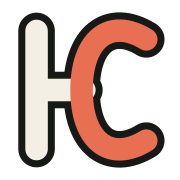
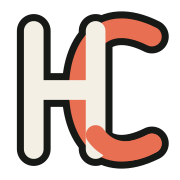
Redesign hero hierarchy and HC monogram

Changed region(s): [[0.0833, 0.0556, 0.9444, 0.9444]]

diff --git a/assets/css/site.css b/assets/css/site.css
@@ -241,31 +241,43 @@ html[data-theme="dark"] .theme-glyph {
 
 .home-hero {
   display: grid;
-  grid-template-columns: minmax(0, 1.35fr) minmax(270px, 0.65fr);
+  grid-template-columns: minmax(0, 1.12fr) minmax(310px, 0.88fr);
   align-items: start;
-  gap: clamp(58px, 8vw, 112px);
+  gap: clamp(70px, 9vw, 130px);
   border-bottom: 1px solid var(--line-strong);
-  padding-top: 92px;
-  padding-bottom: 82px;
+  padding-top: 88px;
+  padding-bottom: 86px;
 }
 
 .hero-copy h1 {
-  max-width: 700px;
-  margin: 23px 0 0;
+  max-width: 650px;
+  margin: 28px 0 0;
   font-family: var(--display);
-  font-size: clamp(58px, 6.4vw, 88px);
-  font-weight: 400;
-  letter-spacing: -0.052em;
-  line-height: 0.99;
+  font-size: clamp(59px, 6.2vw, 84px);
+  font-weight: 500;
+  letter-spacing: -0.045em;
+  line-height: 0.94;
+}
+
+.hero-copy h1 span {
+  display: block;
+  margin-top: 24px;
+  color: var(--muted);
+  font-family: var(--sans);
+  font-size: clamp(15px, 1.45vw, 19px);
+  font-weight: 600;
+  letter-spacing: 0.055em;
+  line-height: 1.35;
+  text-transform: uppercase;
 }
 
 .hero-introduction {
-  max-width: 570px;
-  margin: 30px 0 0;
+  max-width: 520px;
+  margin: 31px 0 0;
   color: var(--muted);
-  font-family: var(--display);
-  font-size: clamp(19px, 1.7vw, 23px);
-  line-height: 1.5;
+  font-family: var(--sans);
+  font-size: clamp(16px, 1.45vw, 18px);
+  line-height: 1.75;
 }
 
 .hero-links {
@@ -303,10 +315,13 @@ html[data-theme="dark"] .theme-glyph {
 }
 
 .profile-card {
+  width: 100%;
+  max-width: 360px;
+  justify-self: end;
   border: 1px solid var(--line-strong);
   border-top: 3px solid var(--accent);
   background: var(--surface);
-  padding: 22px;
+  padding: 25px;
 }
 
 .profile-card-head {
@@ -1487,12 +1502,17 @@ a.project-card:hover {
   }
 
   .hero-copy h1 {
-    font-size: clamp(55px, 16.5vw, 76px);
+    font-size: clamp(51px, 15vw, 68px);
+  }
+
+  .hero-copy h1 span {
+    margin-top: 19px;
+    font-size: 14px;
   }
 
   .hero-introduction {
-    margin-top: 30px;
-    font-size: 20px;
+    margin-top: 26px;
+    font-size: 16px;
   }
 
   .hero-links {

diff --git a/_layouts/default.html b/_layouts/default.html
@@ -12,9 +12,9 @@
   <meta property="og:url" content="{{ page.url | absolute_url }}">
   <title>{% if page.title and page.title != "Home" %}{{ page.title }} — {% endif %}{{ site.title }}</title>
   <link rel="canonical" href="{{ page.url | absolute_url }}">
-  <link rel="icon" type="image/svg+xml" href="/favicon.svg">
-  <link rel="icon" type="image/png" sizes="200x200" href="/favicon.png">
-  <link rel="apple-touch-icon" sizes="180x180" href="/apple-touch-icon.png">
+  <link rel="icon" type="image/svg+xml" href="/favicon.svg?v=hc-20260726">
+  <link rel="icon" type="image/png" sizes="200x200" href="/favicon.png?v=hc-20260726">
+  <link rel="apple-touch-icon" sizes="180x180" href="/apple-touch-icon.png?v=hc-20260726">
   <link rel="preconnect" href="https://fonts.googleapis.com">
   <link rel="preconnect" href="https://fonts.gstatic.com" crossorigin>
   <link rel="preconnect" href="https://cdn.jsdelivr.net" crossorigin>

diff --git a/index.html b/index.html
@@ -10,7 +10,10 @@ description: Wu Huachao is a computer vision researcher and software engineer wo
 <section class="home-hero site-shell">
   <div class="hero-copy">
     <p class="page-kicker">{{ profile.hero.eyebrow }}</p>
-    <h1>{{ profile.hero.title }}</h1>
+    <h1>
+      {{ profile.hero.title }}
+      <span>{{ profile.hero.subtitle }}</span>
+    </h1>
     <p class="hero-introduction">{{ profile.hero.introduction }}</p>
 
     <div class="hero-links">

diff --git a/_includes/site-header.html b/_includes/site-header.html
@@ -1,7 +1,7 @@
 <header class="site-header">
   <div class="site-shell header-inner">
     <a class="brand" href="/" aria-label="Wu Huachao — home">
-      <img class="brand-mark" src="/favicon.svg" width="35" height="35" alt="">
+      <img class="brand-mark" src="/favicon.svg?v=hc-20260726" width="35" height="35" alt="">
       <span class="brand-name">{{ site.data.profile.name }}</span>
     </a>
 
